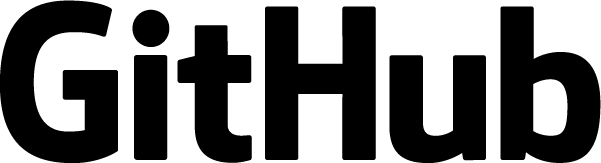
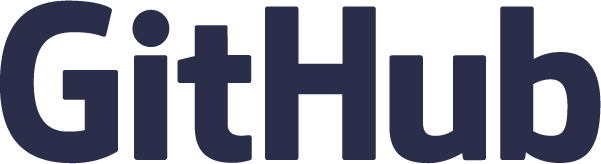
Ajuste na paleta de cores

diff --git a/index.html b/index.html
@@ -20,62 +20,62 @@
 </head>
 
 <body id="home">
-    <header class="container">
-        <div class="logo">
-            <a href="index.html">
-                <img src="img/vanessaortega.png" alt="Logo - Vanessa Ortega">
-            </a>
-        </div>
-        <nav class="menu-responsivo oculto-p">
-            <a href="#projetos" onclick="fecharMenu();">Projetos</a>
-            <a href="#expertise" onclick="fecharMenu();">Expertise</a>
-            <a href="#sobre" onclick="fecharMenu();">Sobre mim</a>
-            <a href="#contato" onclick="fecharMenu();">Contato</a>
-        </nav>
-        <div class="menu-responsivo-gatilho">
-            <a onclick="abrirMenu();" id="abrir-menu">
-                <i class="fal fa-bars"></i>
-            </a>
-            <a onclick="fecharMenu()" class="oculto" id="fechar-menu">
-                <i class="fal fa-times"></i>
-            </a>
-        </div>
-    </header>
-    <section class="container principal">
-        <div>
-            <p>
-                Olá! Eu sou Vanessa Ortega e este é meu portfolio.
-            </p>
-            <h2>
-                Web Design & Desenvolvimento
-            </h2>
-            <p class="texto-metade">
-                Meu propósito é criar designs esteticamente belos e funcionais, e implementá-los
-                em websites, aplicativos e serviços que sejam simples, bonitos e fáceis de usar.
-            </p>
-        </div>
-    </section>
-    <section class="container social">
-        <div>
-            <i class="fal fa-long-arrow-down"></i>
-        </div>
-        <div class="social-logos">
-            <a href="https://dribbble.com/ortegavan">
-                <img src="img/dribbble.png" alt="Dribbble - Vanessa Ortega">
-            </a>&nbsp;
-            <a href="https://github.com/ortegavan">
-                <img src="img/github.png" alt="GitHub - Vanessa Ortega">
-            </a>
-        </div>
-        <div class="social-icones">
-            <a href="https://dribbble.com/ortegavan">
-                <i class="fab fa-dribbble"></i>
-            </a>&nbsp;
-            <a href="https://github.com/ortegavan">
-                <i class="fab fa-github"></i>
-            </a>
-        </div>
-    </section>
+    <div class="fundo-cinza">
+        <header class="container">
+            <div class="logo">
+                <a href="index.html">
+                    <img src="img/vanessaortega.png" alt="Logo - Vanessa Ortega">
+                </a>
+            </div>
+            <nav class="menu-responsivo oculto-p">
+                <a href="#projetos" onclick="fecharMenu();">Projetos</a>
+                <a href="#expertise" onclick="fecharMenu();">Expertise</a>
+                <a href="#sobre" onclick="fecharMenu();">Sobre mim</a>
+                <a href="#contato" onclick="fecharMenu();">Contato</a>
+            </nav>
+            <div class="menu-responsivo-gatilho">
+                <a onclick="abrirMenu();" id="abrir-menu">
+                    <i class="fal fa-bars"></i>
+                </a>
+                <a onclick="fecharMenu()" class="oculto" id="fechar-menu">
+                    <i class="fal fa-times"></i>
+                </a>
+            </div>
+        </header>
+        <section class="container principal">
+            <div>
+                <p>
+                    Olá! Eu sou Vanessa Ortega e este é meu portfolio.
+                </p>
+                <h2>
+                    Web Design & Desenvolvimento
+                </h2>
+                <p class="texto-metade">
+                    Meu propósito é criar designs esteticamente belos e funcionais, e implementá-los
+                    em websites, aplicativos e serviços que sejam simples, bonitos e fáceis de usar.
+                </p>
+            </div>
+        </section>
+        <section class="container social">
+            <div class="social-logos">
+                <a href="https://dribbble.com/ortegavan">
+                    <img src="img/dribbble.png" alt="Dribbble - Vanessa Ortega">
+                </a>&nbsp;
+                <a href="https://github.com/ortegavan">
+                    <img src="img/github.png" alt="GitHub - Vanessa Ortega">
+                </a>
+            </div>
+            <div class="social-icones">
+                <a href="https://dribbble.com/ortegavan">
+                    <i class="fab fa-dribbble"></i>
+                </a>&nbsp;
+                <a href="https://github.com/ortegavan">
+                    <i class="fab fa-github"></i>
+                </a>
+            </div>
+        </section>
+    </div>
+
     <section class="container margem-topo" id="projetos">
         <h2>
             SimpleCode <span class="cinzinha">Site</span>
@@ -190,7 +190,7 @@
                 onmouseout="this.src='img/perfil-pb.jpg'">
         </div>
     </section>
-    <footer class="margem-topo" id="contato">
+    <footer class="margem-topo fundo-cinza" id="contato">
         <div class="container rodape">
             <div>
                 <h3>
@@ -201,7 +201,7 @@
                 </p>
                 <p>
                     <a href="https://www.instagram.com/ortegavan/">
-                        <i class="fab fa-instagram"></i> 
+                        <i class="fab fa-instagram"></i>
                     </a>
                     <a href="https://twitter.com/ortegavan">
                         <i class="fab fa-twitter-square"></i>

diff --git a/css/style.css b/css/style.css
@@ -9,19 +9,20 @@
 
 body {
     background-color: #FFFFFF;
-    color: #000000;
+    color: #6c6d7f;
     font-family: 'Montserrat', sans-serif;
     font-size: 16px;
-    margin-top: 10px;
 }
 
 h2 {
+    color: #2b2e4a;
     font-family: 'Playfair Display', serif;
     font-size: 52px;
     margin: 20px 0 20px 0;
 }
 
 h3 {
+    color: #2b2e4a;
     font-family: 'Playfair Display', serif;
     font-size: 36px;
 }
@@ -31,7 +32,7 @@ p {
 }
 
 header {
-    height: 14vh;
+    height: 12vh;
     display: flex;
     justify-content: space-between;
     align-items: center;
@@ -46,12 +47,16 @@ header nav {
 }
 
 a {
-    color: #000000;
+    color: #2b2e4a;
     text-decoration: none;
 }
 
 .oculto {
     display: none !important;
+}
+
+.fundo-cinza {
+    background-color: #f2f2f2;
 }
 
 .container {
@@ -71,7 +76,7 @@ nav {
 }
 
 .principal {
-    height: 76vh;
+    height: 68vh;
     display: flex;
     flex-direction: column;
     justify-content: center;
@@ -82,7 +87,7 @@ nav {
 }
 
 .social {
-    height: 8vh;
+    height: 10vh;
     display: flex;
 }
 
@@ -92,6 +97,7 @@ nav {
 }
 
 .social i {
+    color: #2b2e4a;
     font-size: 24px;
 }
 
@@ -104,7 +110,7 @@ nav {
 }
 
 .cinzinha {
-    color: #999999;
+    color: #9e9fad;
 }
 
 .imagem-home {
@@ -128,7 +134,11 @@ nav {
 
 .expertise {
     height: 300px;
-    background-color: #000000;
+    background-color: #2b2e4a;
+    color: #FFFFFF;
+}
+
+.expertise h2 {
     color: #FFFFFF;
 }
 
@@ -163,7 +173,6 @@ nav {
 
 footer {
     height: 270px;
-    background-color: #E5EBF0;
 }
 
 footer i {

diff --git a/hyperativa.html b/hyperativa.html
@@ -62,7 +62,7 @@
             <img src="img/hyperativa-01.jpg" alt="Hyperativa">
         </div>
     </section>
-    <footer class="margem-topo" id="contato">
+    <footer class="margem-topo fundo-cinza" id="contato">
         <div class="container rodape">
             <div>
                 <h3>

diff --git a/simplecode.html b/simplecode.html
@@ -68,7 +68,7 @@
             <img src="img/simplecode-04.jpg" alt="SimpleCode">
         </div>
     </section>
-    <footer class="margem-topo" id="contato">
+    <footer class="margem-topo fundo-cinza" id="contato">
         <div class="container rodape">
             <div>
                 <h3>

diff --git a/gamemania.html b/gamemania.html
@@ -65,7 +65,7 @@
             <img src="img/gamemania-04.jpg" alt="GameMania">
         </div>
     </section>
-    <footer class="margem-topo" id="contato">
+    <footer class="margem-topo fundo-cinza" id="contato">
         <div class="container rodape">
             <div>
                 <h3>

diff --git a/bematize.html b/bematize.html
@@ -65,7 +65,7 @@
             <img src="img/bematize-04.jpg" alt="Bematize">
         </div>
     </section>
-    <footer class="margem-topo" id="contato">
+    <footer class="margem-topo fundo-cinza" id="contato">
         <div class="container rodape">
             <div>
                 <h3>
